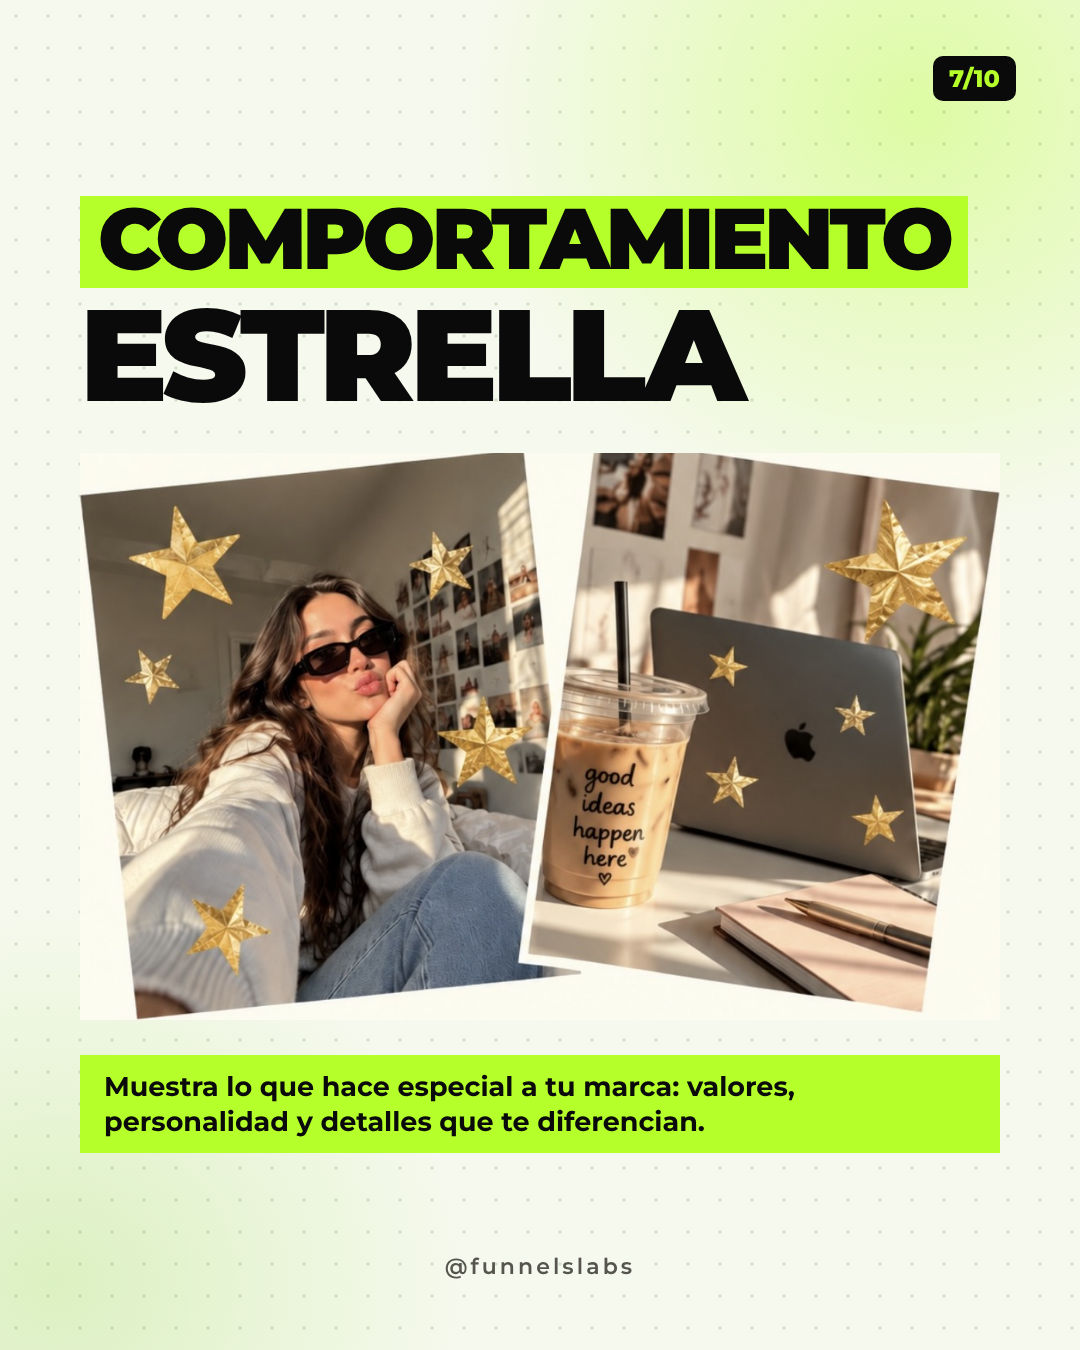
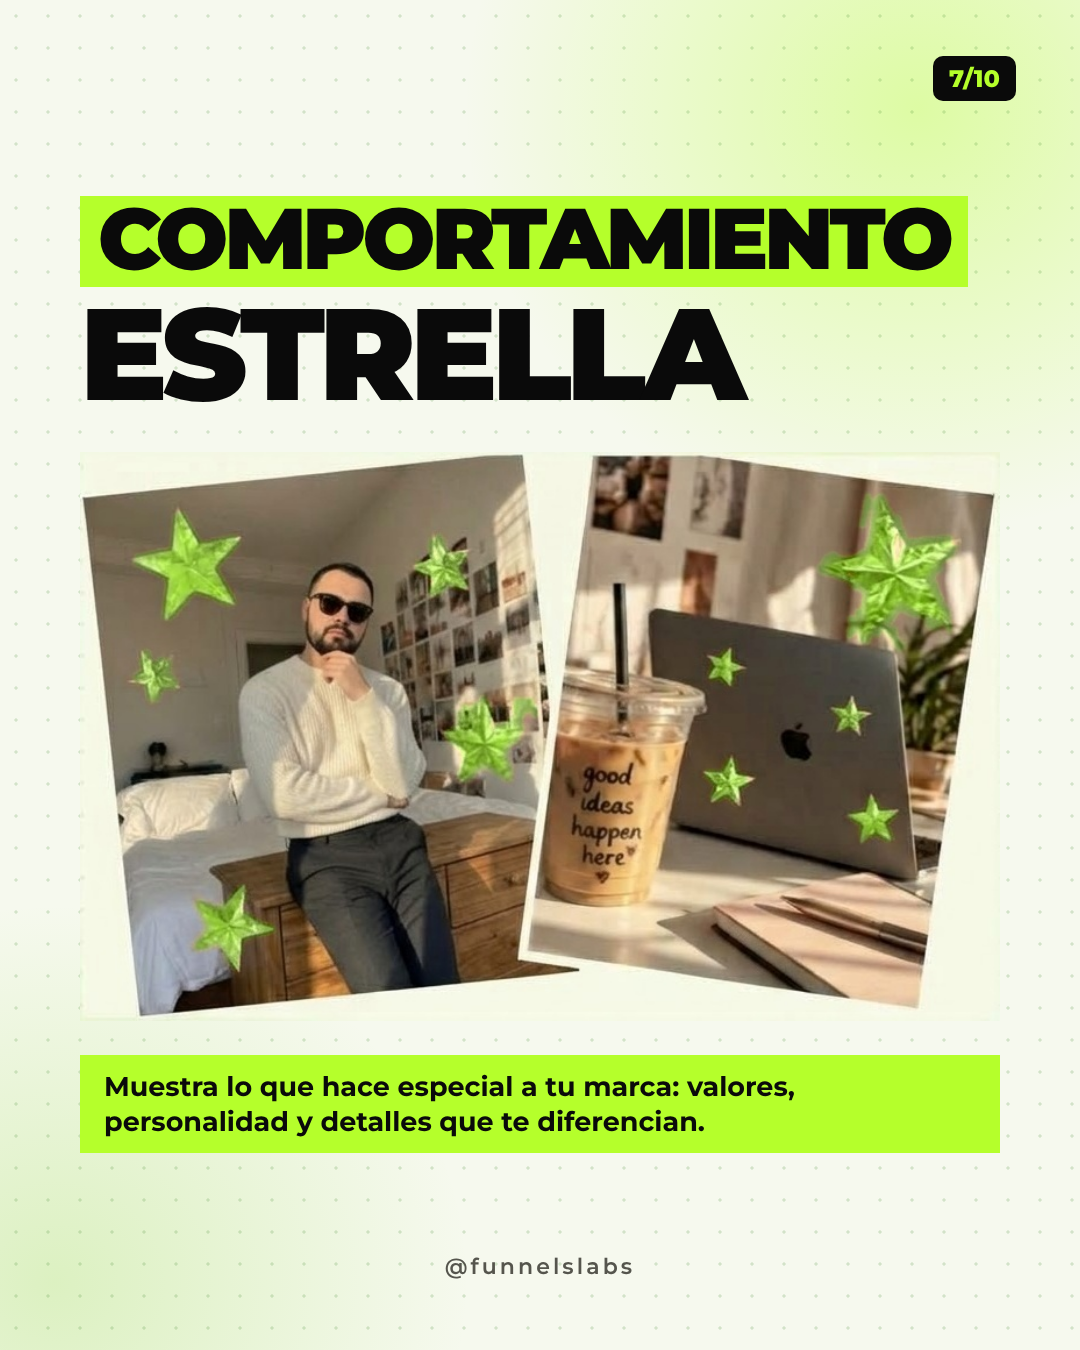
Comportamiento estrella con fotos del hombre y estrellas en verde
Claude-Session: https://claude.ai/code/session_018d4LXHkXweDJXxfN5x99dL

Changed region(s): [[0.0611, 0.3111, 0.9472, 0.7778], [0.3361, 0.3422, 0.3667, 0.3733]]

diff --git a/carruseles/ideas-carruseles/carrusel.html b/carruseles/ideas-carruseles/carrusel.html
@@ -87,7 +87,7 @@ body{background:#d9d9d2;font-family:"Montserrat",Arial,sans-serif;color:var(--in
   <div class="n">7/10</div>
   <div class="T hl" style="font-size:86px;align-self:flex-start;margin-top:20px">Comportamiento</div>
   <div class="T" style="font-size:130px;margin-top:8px">estrella</div>
-  <div class="ph" style="width:920px;height:568px;margin-top:40px;box-shadow:none;background:transparent"><img src="ref/r8.jpg" style="object-fit:contain"></div>
+  <div class="ph" style="width:920px;height:569px;margin-top:40px;box-shadow:none;background:transparent"><img src="ref/estrella-hombre-verde.jpg" style="object-fit:contain"></div>
   <div class="cap" style="font-size:27px">Muestra lo que hace especial a tu marca: valores, personalidad y detalles que te diferencian.</div>
   <div class="handle">@funnelslabs</div>
 </section>
